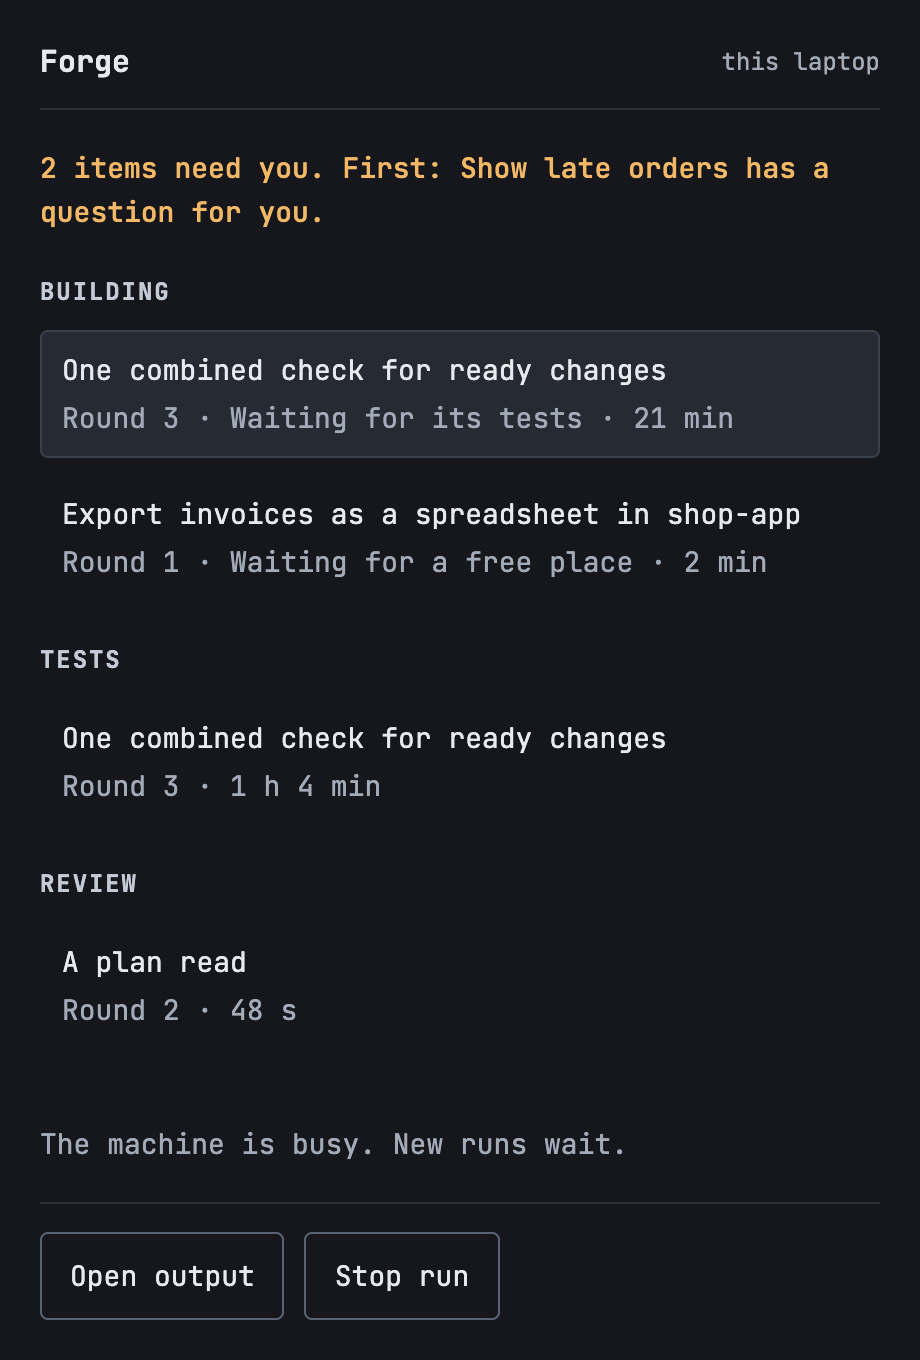
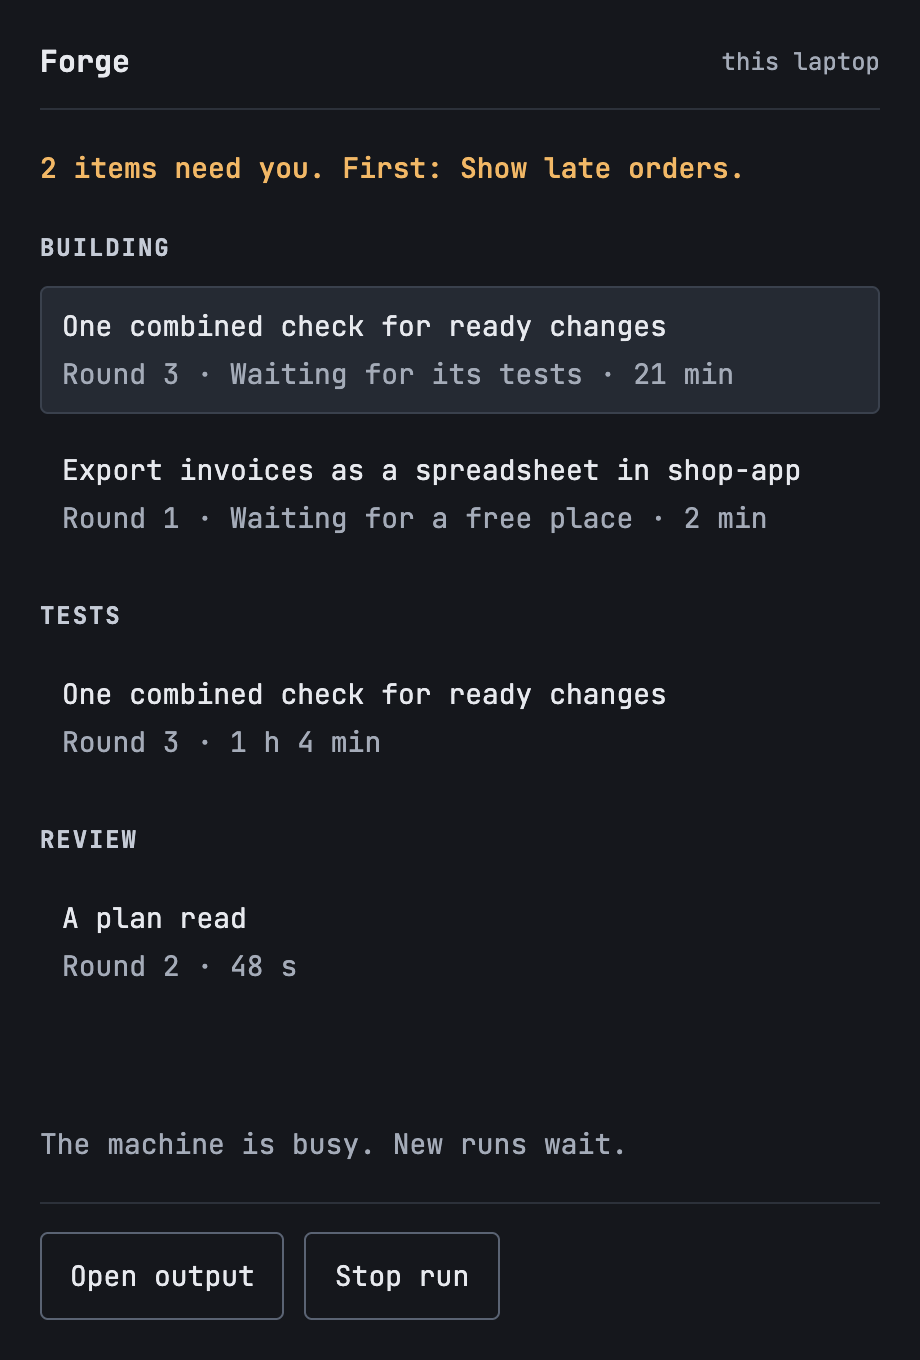
Design for the /forge pane: the needs-you line names the item and says no more

diff --git a/docs/design/FORGE-PANE-1/src/pane-needs-you.html b/docs/design/FORGE-PANE-1/src/pane-needs-you.html
@@ -19,7 +19,7 @@ button:focus-visible{outline:2px solid #9ec1ff;outline-offset:2px}
     <span style="font-weight: 700; font-size: 15px">Forge</span>
     <span style="color: #a4abb8; font-size: 12px">this laptop</span>
   </div>
-  <div style="color: #f2b866; font-weight: 500">2 items need you. First: Show late orders has a question for you.</div>
+  <div style="color: #f2b866; font-weight: 500">2 items need you. First: Show late orders.</div>
   <div style="display: flex; flex-direction: column; gap: 8px">
     <div style="color: #c5cbd6; font-size: 12px; font-weight: 700; letter-spacing: 0.08em">BUILDING</div>
     <button type="button" style="display: flex; flex-direction: column; gap: 2px; text-align: left; min-height: 44px; padding: 8px 10px; background: #252a33; color: #e7e9ee; border: 1px solid #3a414d; border-radius: 4px; cursor: pointer">

diff --git a/docs/design/FORGE-PANE-1/src/desktop-needs-you.html b/docs/design/FORGE-PANE-1/src/desktop-needs-you.html
@@ -32,7 +32,7 @@ button:focus-visible{outline:2px solid #1d4ed8;outline-offset:2px}
   </div>
   <div style="display: flex; flex-direction: column; gap: 4px; padding: 12px 14px; background: #fbe9d7; border: 1px solid #e8b98a; border-radius: 10px">
     <div style="font-weight: 700; color: #7a3410">2 items need you</div>
-    <div style="color: #4a2a12">First: Show late orders has a question for you.</div>
+    <div style="color: #4a2a12">First: Show late orders.</div>
   </div>
 
   <div style="display: flex; flex-direction: column; gap: 8px">

diff --git a/docs/design/FORGE-PANE-1/SCREENS.md b/docs/design/FORGE-PANE-1/SCREENS.md
@@ -31,8 +31,8 @@ Image: desktop-running.png (440 by 1000)
 
 Image: desktop-needs-you.png (440 by 1000)
 
-- A soft banner in place of the plain line: "2 items need you" and
-  "First: Show late orders has a question for you."
+- A soft banner in place of the plain line: "2 items need you" and "First: Show late orders."
+  With one item the line reads "Show late orders needs you."
 - A waiting run has a hollow dot, its round as a tag, and the line "Waiting for its tests" or
   "Waiting for a free place".
 - Last line when the machine is busy: "The machine is busy. New runs wait."
